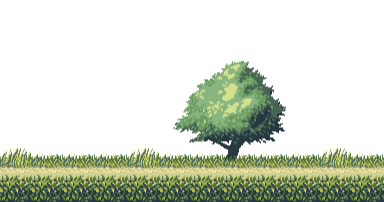
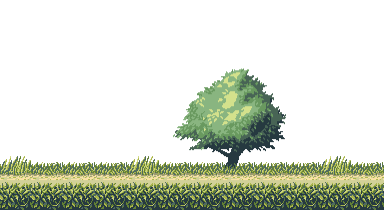
update assets

diff --git a/src/views/World/Combat/Game.ts b/src/views/World/Combat/Game.ts
@@ -180,16 +180,14 @@ function launch(gameState: CombatRoom) {
       /*
         Handy dimensions
       */
+      const canvasWidth = global.gameCanvas.offsetWidth;
       const canvasHeight = global.gameCanvas.offsetHeight;
 
       /*
         Country background
       */
-      // how many times the 67% of canvas height fits into the original image height
-      const exponential = (canvasHeight * 0.67) / 142;
-      // dimensions to fit this percentage
-      const countryWidth = 384 * exponential;
-      const countryHeight = 202 * exponential;
+      const imagePixelHeight = 210;
+      const exponential = canvasHeight / imagePixelHeight;
 
       // add each image in order
       _.each([
@@ -197,24 +195,20 @@ function launch(gameState: CombatRoom) {
         'country-clouds-bg',
         'country-trees-bg',
         'country-platform',
-      ], (name, i, l) => {
+      ], (name, i) => {
         // clouds are parallax
-        const img = this.add.tileSprite(0, 0, countryWidth, countryHeight, name)
-          .setDepth(i) // z coordinate
-          .setScale(canvasHeight/ 202)
+        const img = 
+          this.add.tileSprite(0, 0, canvasWidth, canvasHeight, name)
+          // z-axis
+          .setDepth(i)
+          // pixelHeight of each image in tileset
+          .setScale(exponential)
           .setOrigin(0);
         if (name === 'country-clouds-bg') {
           // set them to the game instance
           global.gameClouds = img
-        } else {
-          // // extraHeight because each layer goes 5% higher
-          // const r = l.length - (i + 1);
-          // const extraHeight = r * (canvasHeight * 0.05);
-
-          // this.add.image(0, canvasHeight - extraHeight, name)
-          // .setDepth(i) // z coordinate
-          // .setDisplaySize(countryWidth, countryHeight)
-          // .setOrigin(0, 1);
+        } else if (name === 'country-mountains-bg') {
+          img.setScale(exponential * .7);
         }
       });
     }
